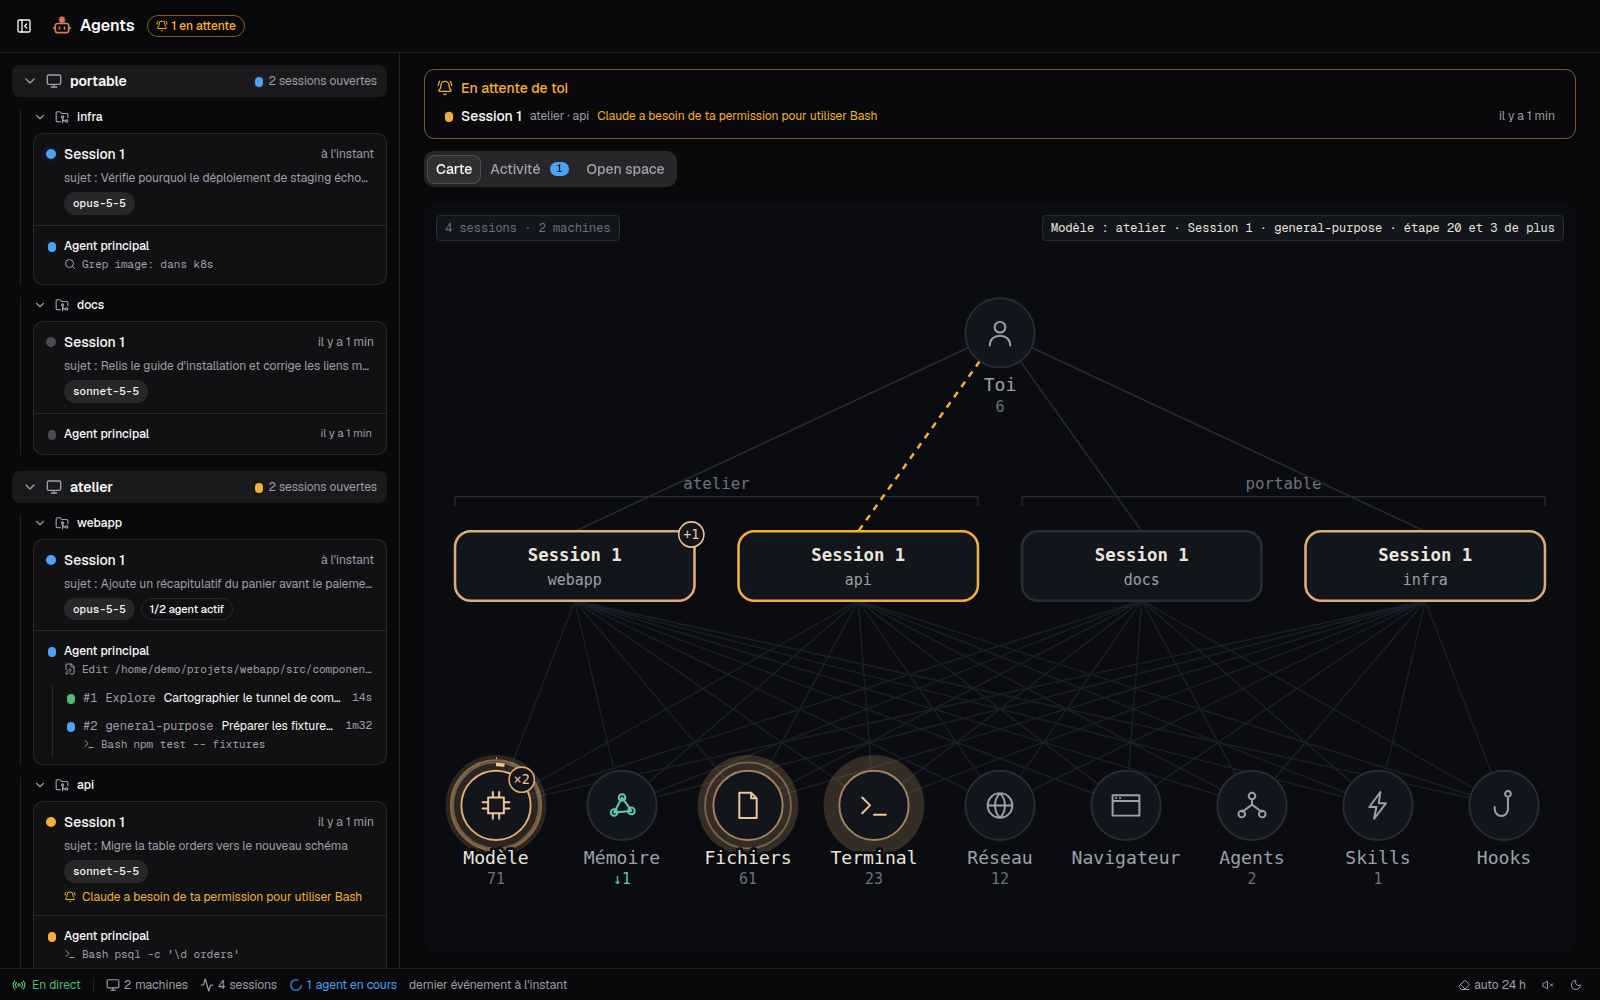
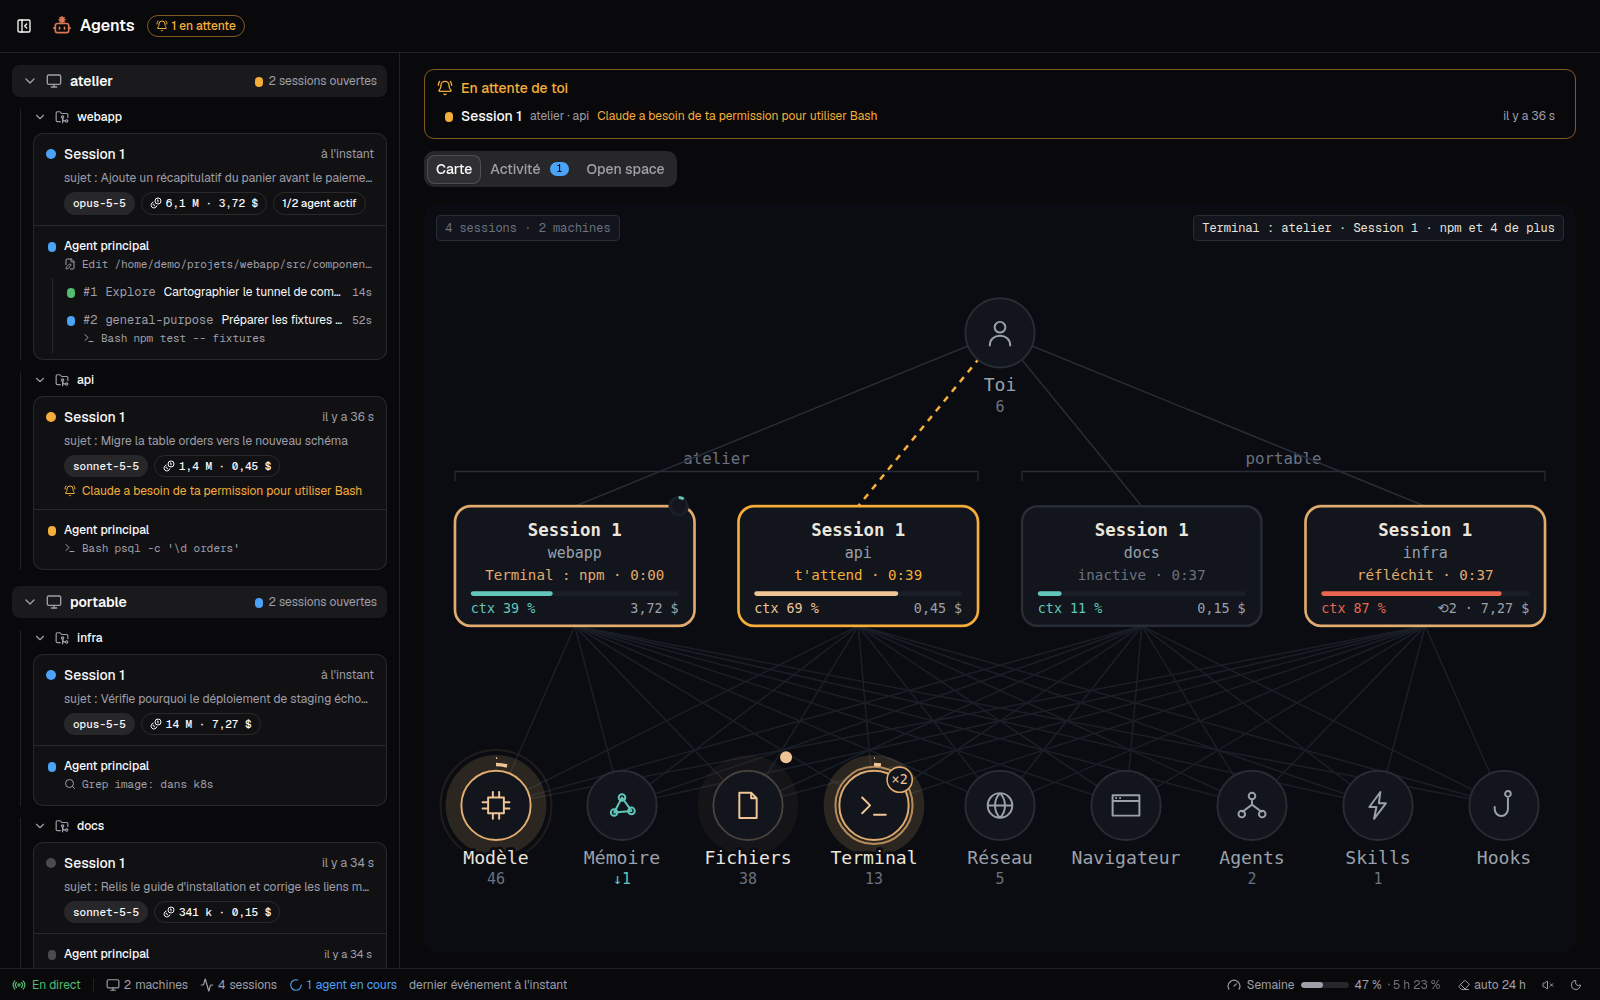
feat(content): cover context usage and subscription limits in claude-agents-board article
Describe per-thread context tracking, compactions, the session map
gauge and subscription limits forwarded by the wrapped status line.
Refresh the screenshots and add close-ups of session boxes, the map
and the limits tooltip (EN/FR).

diff --git a/content/fr/posts/2026-11-17-claude-agents-board.md b/content/fr/posts/2026-11-17-claude-agents-board.md
@@ -5,6 +5,7 @@ categories: [devops]
 tags: [docker, traefik, homelab, claude-code]
 description: "Un petit tableau de bord auto-hébergé pour voir en temps réel ce que font toutes vos sessions Claude Code et leurs sous-agents."
 translationKey: "claude-agents-board"
+lastmod: 2026-11-17
 slug: "garder-un-oeil-sur-plusieurs-sessions-claude-code-a-la-fois"
 ---
 
@@ -26,13 +27,17 @@ L'application sert elle-même son script d'installation, donc brancher une machi
 curl -fsSL http://agents.10.0.0.10.sslip.io/install-hooks.sh | sh -s -- --host portable
 ```
 
-Le script ajoute les hooks dans `~/.claude/settings.json` sans toucher à ceux qui existent déjà, et une version PowerShell existe pour Windows. Le reste de l'installation est dans le [README][repo].
+Le script ajoute les hooks dans `~/.claude/settings.json` sans toucher à ceux qui existent déjà, active la télémétrie et enveloppe la status line (j'y reviens plus bas). Une version PowerShell existe pour Windows. Le reste de l'installation est dans le [README][repo].
 
 ## Une page, toutes les sessions
 
 ![Accueil : toi en haut, les sessions groupées par machine au milieu, les stations partagées en bas](/images/claude-agents-board/home-tree.png)
 
 La page d'accueil est un arbre. Toi en haut, toutes les sessions ouvertes au milieu, groupées par machine, et en bas les « stations » qu'elles utilisent : modèle, fichiers, terminal, réseau, agents, etc. Chaque appel d'outil envoie une impulsion de la session vers la station, puis une autre au retour. Une session qui travaille respire en orange ; une session qui t'attend passe en ambre, et le lien entre elle et toi se met à défiler.
+
+![Les boîtes des sessions : activité en cours et son chrono, barre de contexte, compactages et coût estimé](/images/claude-agents-board/home-sessions.png)
+
+Chaque boîte en dit un peu plus que « occupée » ou « pas occupée ». Sous le titre de la session et le nom du projet : ce qu'elle fait en ce moment et depuis combien de temps (un outil, « réfléchit », « t'attend », « inactive »), une barre de contexte avec son pourcentage, le nombre de compactages et le coût estimé. Les sous-agents en cours apparaissent en petites pastilles sur le bord haut, chacun avec la jauge de son propre contexte. Une session inactive s'estompe doucement entre cinq minutes et une heure, pour que celles que j'ai oubliées ne fassent plus concurrence à celles qui comptent.
 
 Cet état ambre, c'est la raison d'être de tout le reste. Un bandeau en haut liste chaque session qui attend une réponse ou une permission, et un petit carillon, optionnel, sonne quand l'une d'elles en demande une. Je ne découvre plus un agent bloqué par hasard.
 
@@ -56,6 +61,26 @@ Les hooks ne transmettent pas la consommation de tokens, mais Claude Code sait e
 
 Le coût, c'est l'estimation de Claude Code au tarif public de l'API. Avec un abonnement, ce n'est pas ce qui est facturé. Je le lis comme un ordre de grandeur, et comme un moyen de repérer la session qui consomme de l'Opus depuis tout l'après-midi.
 
+## Quand le contexte se remplit
+
+Le contexte, c'est le chiffre qui me manquait le plus. Quand une session devient lente et un peu vague, la première question est toujours « elle va compacter ? », et la réponse est dans un terminal que je ne regarde pas.
+
+Les hooks ne le disent pas. La télémétrie, si, indirectement : chaque requête au modèle donne ses tokens d'entrée, de cache lu et de cache écrit, et leur somme, c'est la taille du contexte envoyé avec cette requête. Le piège, c'est que toutes les requêtes n'appartiennent pas à la conversation. Claude Code demande aussi au modèle des titres de session, des résumés de compactage ou des vérifications du mode auto, et les sous-agents font leurs propres requêtes dans la même session. Chaque événement porte un `query_source`, et depuis Claude Code 2.1 les requêtes des sous-agents portent aussi un `agent_id`. Le tableau de bord garde donc un contexte par fil : le principal, et un par sous-agent. Les requêtes annexes sont ignorées.
+
+![Carte d'une session : la jauge de contexte entoure l'agent principal](/images/claude-agents-board/session-map.png)
+
+Le pourcentage est calculé sur la fenêtre du modèle : 200 k pour les modèles 3.x à 4.6 sans suffixe `[1m]`, 1 M pour les autres. La barre passe à l'orange à 60 % et au rouge à 85 %, et chaque compactage (hook `PostCompact`) ajoute un au compteur `⟲`. Dans la vue carte d'une session, la même jauge entoure l'agent principal.
+
+### Et la limite de la semaine
+
+Avec un abonnement, le chiffre qui compte vraiment n'est pas le coût, c'est ce qu'il reste de la semaine. Ni les hooks ni la télémétrie ne le transmettent. Seule la [status line][statusline] le reçoit : un objet `rate_limits` avec les fenêtres de 7 jours et de 5 heures, en pourcentage utilisé avec la date de reset, pour les abonnements Pro et Max, après la première réponse du modèle.
+
+Le script d'installation enveloppe donc la status line déjà configurée, quelle qu'elle soit. Un petit script généré envoie l'entrée de la status line au tableau de bord, puis lance la commande d'origine, mise de côté et remise en place par `--uninstall`. Rien ne change dans le terminal. Au passage, la taille exacte de la fenêtre de contexte arrive aussi, et remplace la règle 200 k / 1 M pour le fil principal.
+
+![Les limites de l'abonnement dans la barre d'état : semaine et fenêtre de 5 h avec leurs dates de reset](/images/claude-agents-board/limits.png)
+
+Les deux limites s'affichent dans la barre du bas, avec les dates de reset au survol. Quand une fenêtre dépasse sa date de reset, elle repart à zéro en attendant la prochaine valeur.
+
 ## La partie juste pour le plaisir
 
 ![Le bureau : l'agent principal à l'accueil, un sous-agent à sa table](/images/claude-agents-board/session-office.png)
@@ -68,7 +93,7 @@ C'est utile ? Pas vraiment. La timeline dit la même chose, en plus précis. Mai
 
 Il est pensé pour un réseau local, et ça se voit. L'interface n'a pas d'authentification : n'importe quel appareil du réseau peut lire les prompts, les commandes et les fichiers lus par les agents. Un token optionnel protège la route qui reçoit les événements, pas la page. Je ne l'exposerais pas en dehors de la maison.
 
-Les hooks ne remontent pas tout non plus. Pas de messages intermédiaires du modèle, pas de remplissage du contexte, et les sous-agents lancés par un workflow arrivent sans leur consigne. Une session dont le terminal a été fermé sans sortie propre reste « au repos » jusqu'à ce que le nettoyage automatique la retire.
+Les hooks ne remontent pas tout non plus. Pas de messages intermédiaires du modèle, et les sous-agents lancés par un workflow arrivent sans leur consigne. Les tokens et le coût sont comptés par session, sans répartition par sous-agent ; seul le contexte est suivi par fil. Le script PowerShell n'enveloppe pas encore la status line : sous Windows, il faut la brancher à la main (le README explique comment). Une session dont le terminal a été fermé sans sortie propre reste « au repos » jusqu'à ce que le nettoyage automatique la retire.
 
 Rien de tout ça ne me gêne pour ce qu'il est censé être : un onglet sur lequel je jette un œil pour savoir si quelque chose a besoin de moi. Il tourne comme un stack de plus à côté des autres dans le [homelab]({{< relref "2026-02-17-homelab-docker-compose-traefik.md" >}}), derrière Traefik, sur un nom en [sslip.io]({{< relref "2025-04-17-traefik-local-https-mkcert-sslip.md" >}}). Les captures ci-dessus viennent d'une instance de démonstration alimentée par des sessions fictives.
 
@@ -83,4 +108,5 @@ Rien de tout ça ne me gêne pour ce qu'il est censé être : un onglet sur lequ
 [repo]: https://github.com/guillaumedelre/claude-agents-board
 [hooks]: https://code.claude.com/docs/en/hooks
 [otel]: https://code.claude.com/docs/en/monitoring-usage
+[statusline]: https://code.claude.com/docs/en/statusline
 [metrocity]: https://jik-a-4.itch.io/metrocity

diff --git a/content/en/posts/2026-11-17-claude-agents-board.md b/content/en/posts/2026-11-17-claude-agents-board.md
@@ -5,6 +5,7 @@ categories: [devops]
 tags: [docker, traefik, homelab, claude-code]
 description: "A small self-hosted dashboard to see what all your Claude Code sessions and subagents are doing, in real time."
 translationKey: "claude-agents-board"
+lastmod: 2026-11-17
 ---
 
 One Claude Code session in one terminal is easy to follow. Three sessions spread across two machines, each one spawning subagents, is another story. One is refactoring, one is running tests, one has been waiting for twenty minutes for me to approve a `psql` command, and I only find out when I happen to switch to that tab.
@@ -25,13 +26,17 @@ The app serves its own install script, so plugging in a machine is one line:
 curl -fsSL http://agents.10.0.0.10.sslip.io/install-hooks.sh | sh -s -- --host laptop
 ```
 
-The script merges the hooks into `~/.claude/settings.json` without touching existing ones, and a PowerShell version exists for Windows. The rest of the setup is in the [README][repo].
+The script merges the hooks into `~/.claude/settings.json` without touching existing ones, turns on telemetry, and wraps the status line (more on both below). A PowerShell version exists for Windows. The rest of the setup is in the [README][repo].
 
 ## One page, every session
 
 ![Home page: you at the top, sessions grouped by machine in the middle, shared stations at the bottom](/images/claude-agents-board/home-tree.png)
 
 The home page is a tree. You at the top, every open session in the middle grouped by machine, and at the bottom the "stations" they use: model, files, terminal, network, agents, and so on. Each tool call sends a pulse from the session to the station and back. A session that's working breathes in orange; a session waiting for you turns amber, and the link between you and it starts scrolling.
+
+![Session boxes: current activity and its timer, context bar, compactions and estimated cost](/images/claude-agents-board/home-sessions.png)
+
+Each box says a bit more than "busy" or "not busy". Under the session title and project: what it's doing right now and for how long (a tool, "thinking", "waiting for you", "idle"), a context bar with its percentage, the number of compactions, and the estimated cost. Running subagents show up as small pills on the top edge, each with its own context gauge. An idle session slowly fades between five minutes and an hour, so the ones I forgot about stop competing with the ones that matter.
 
 That amber state is the reason the whole thing exists. A banner at the top lists every session waiting for an answer or a permission, and an optional chime plays when one asks. I no longer discover a blocked agent by accident.
 
@@ -55,6 +60,26 @@ Hooks don't carry token usage, but Claude Code can export [OpenTelemetry][otel] 
 
 The cost is Claude Code's own estimate at public API prices. On a subscription, that's not what you pay. I read it as an order of magnitude, and as a way to notice which session has been burning through Opus all afternoon.
 
+## How full the context is
+
+Context was the number I missed most. When a session starts getting slow and vague, the first question is always "is it about to compact?", and the answer lives in a terminal I'm not looking at.
+
+The hooks don't say. The telemetry does, indirectly: each model request reports its input, cache read and cache write tokens, and their sum is the size of the context sent with that request. The catch is that not every request belongs to the conversation. Claude Code also asks the model for session titles, compaction summaries or auto mode checks, and subagents make their own requests in the same session. Each event carries a `query_source`, and since Claude Code 2.1 subagent requests also carry an `agent_id`. So the dashboard keeps one context per thread: the main one, and one per subagent. Side requests are ignored.
+
+![Session map: the context gauge circles the main agent](/images/claude-agents-board/session-map.png)
+
+The percentage is relative to the model's window: 200k for the 3.x to 4.6 models without the `[1m]` suffix, 1M for the others. The bar turns orange at 60% and red at 85%, and every compaction (`PostCompact` hook) adds one to the `⟲` counter. In the session's map view, the same gauge circles the main agent.
+
+### And the weekly limit
+
+On a subscription, the number that really matters isn't the cost, it's how much of the week is left. Neither the hooks nor the telemetry carry it. Only the [status line][statusline] receives it: a `rate_limits` object with the 7-day and 5-hour windows, as a used percentage and a reset date, for Pro and Max plans, after the first model response.
+
+So the install script wraps whatever status line is already configured. A small generated script forwards the status line input to the dashboard, then runs the original command, which is saved on the side and put back by `--uninstall`. Nothing changes in the terminal. The exact context window size comes along for free and replaces the 200k / 1M guess for the main thread.
+
+![Subscription limits in the status bar: week and 5-hour window with their reset dates](/images/claude-agents-board/limits.png)
+
+Both limits end up in the dashboard's bottom bar, with the reset dates on hover. When a window passes its reset date, it drops back to zero until the next value arrives.
+
 ## The part that's just for fun
 
 ![The office view: the main agent at the front desk, a subagent at its table](/images/claude-agents-board/session-office.png)
@@ -67,7 +92,7 @@ Is it useful? Not really. The timeline says the same thing more precisely. But i
 
 It's built for a local network, and it shows it. There's no authentication on the UI: anyone on the network can read the prompts, the commands, and the files the agents read. An optional token protects the endpoint that receives events, not the page. I wouldn't expose it outside the house.
 
-The hooks don't report everything either. No intermediate model messages, no context usage, and subagents launched by a workflow show up without their instructions. A session whose terminal was closed without a clean exit stays "idle" until the automatic cleanup removes it.
+The hooks don't report everything either. No intermediate model messages, and subagents launched by a workflow show up without their instructions. Tokens and cost are counted per session, not split per subagent; only the context is tracked per thread. The PowerShell script doesn't wrap the status line yet, so on Windows it has to be wired by hand (the README shows how). A session whose terminal was closed without a clean exit stays "idle" until the automatic cleanup removes it.
 
 None of that bothers me for what it's meant to be: a tab I glance at to know whether something needs me. It runs as one more stack next to the others in the [homelab]({{< relref "2026-02-17-homelab-docker-compose-traefik.md" >}}), behind Traefik, on an [sslip.io]({{< relref "2025-04-17-traefik-local-https-mkcert-sslip.md" >}}) hostname. The screenshots above come from a demo instance fed with made-up sessions.
 
@@ -82,4 +107,5 @@ None of that bothers me for what it's meant to be: a tab I glance at to know whe
 [repo]: https://github.com/guillaumedelre/claude-agents-board
 [hooks]: https://code.claude.com/docs/en/hooks
 [otel]: https://code.claude.com/docs/en/monitoring-usage
+[statusline]: https://code.claude.com/docs/en/statusline
 [metrocity]: https://jik-a-4.itch.io/metrocity
